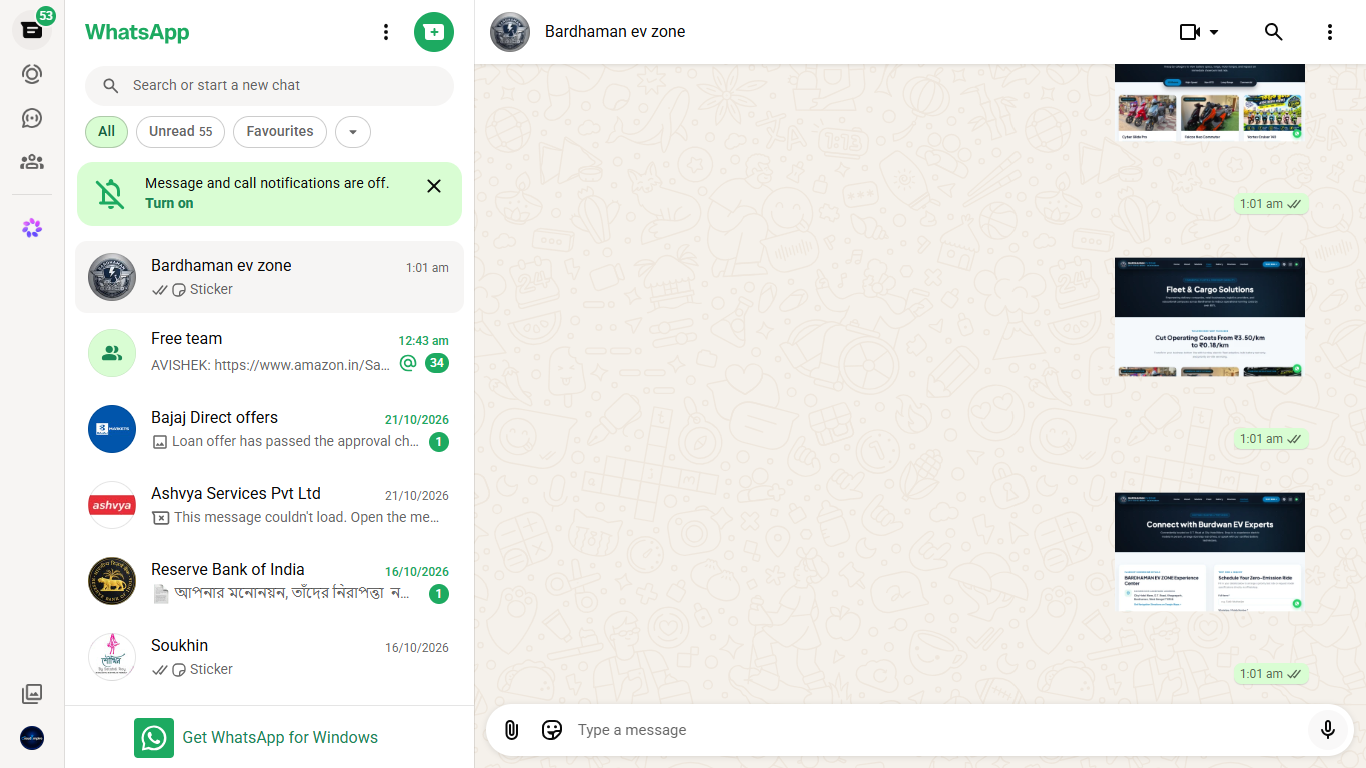
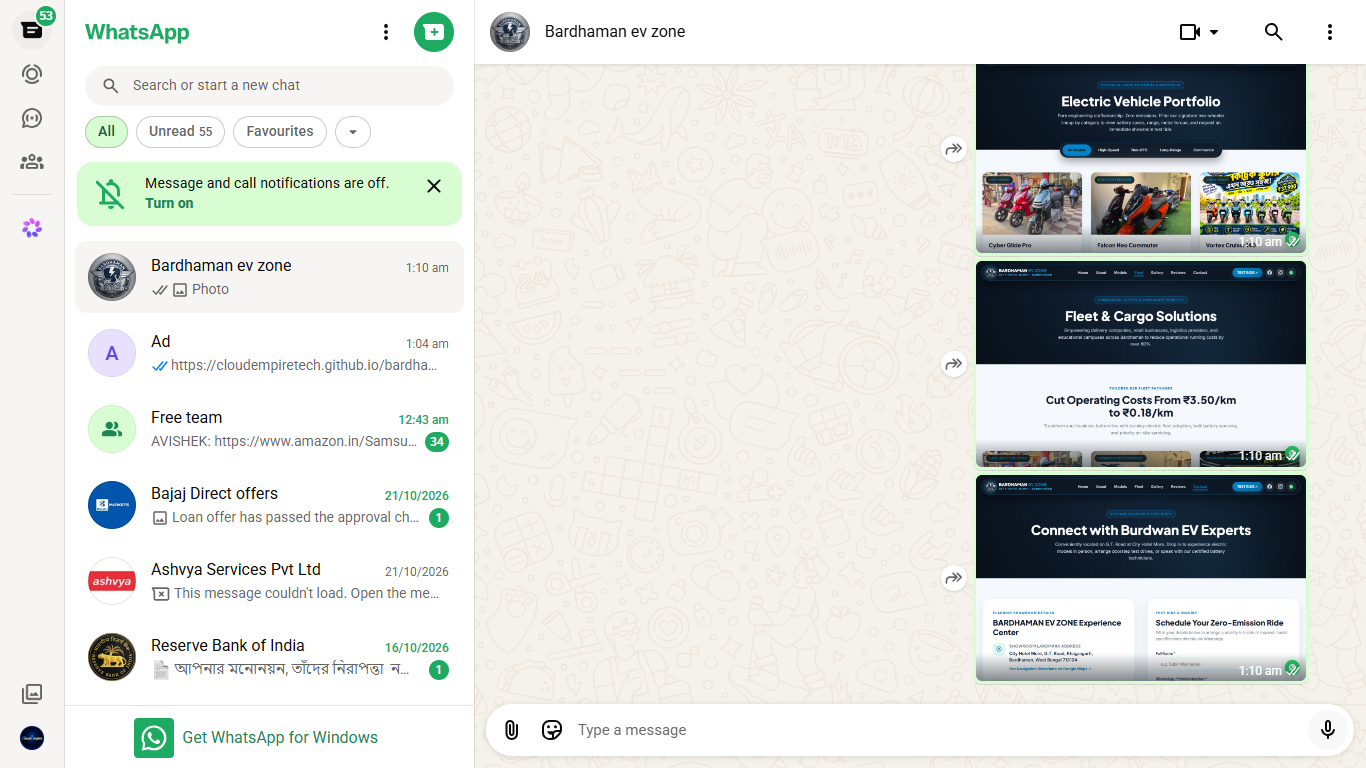
Fix attachment method to strictly use Photos & videos file chooser

diff --git a/dispatch_bardhaman_ev_wa.js b/dispatch_bardhaman_ev_wa.js
@@ -101,56 +101,34 @@ async function dispatch() {
 
     // Open attach menu
     try {
-      const attachBtn = page.locator('button[aria-label*="Attach" i], div[aria-label*="Attach" i], span[data-icon="plus"], span[data-icon="attach-menu-plus"], span[data-icon="clip"], button[title*="Attach" i]').first();
+      console.log('[WA OUTREACH] Clicking Attach button...');
+      const attachBtn = page.locator('button[aria-label*="Attach" i], div[aria-label*="Attach" i], span[data-icon="plus"], span[data-icon="attach-menu-plus"]').first();
       await attachBtn.waitFor({ state: 'visible', timeout: 15000 });
       await attachBtn.click();
-      await page.waitForTimeout(2000);
+      await page.waitForTimeout(1500);
 
-      // Enable multiple on file inputs
-      await page.evaluate(() => {
-        document.querySelectorAll('input[type="file"]').forEach(i => i.setAttribute('multiple', 'multiple'));
-      });
+      // Trigger Photos & videos file chooser to strictly prevent sticker conversion
+      console.log('[WA OUTREACH] Selecting "Photos & videos" option via filechooser...');
+      const photosOption = page.locator('span:has-text("Photos & videos"), li:has-text("Photos & videos"), div[role="button"]:has-text("Photos & videos")').first();
+      await photosOption.waitFor({ state: 'visible', timeout: 10000 });
 
-      const fileInputs = await page.locator('input[type="file"]').all();
-      console.log(`[WA OUTREACH] Found ${fileInputs.length} file inputs for media.`);
+      const [fileChooser] = await Promise.all([
+        page.waitForEvent('filechooser', { timeout: 15000 }),
+        photosOption.click()
+      ]);
 
-      let uploaded = false;
-      for (let i = fileInputs.length - 1; i >= 0; i--) {
-        try {
-          await fileInputs[i].setInputFiles(screenshots);
-          console.log(`[WA OUTREACH] Successfully attached screenshots to input[${i}]`);
-          uploaded = true;
-          break;
-        } catch (err) {
-          console.log(`[WA OUTREACH] Multiple upload attempt on input[${i}]: ${err.message}`);
-        }
-      }
+      console.log('[WA OUTREACH] FileChooser triggered! Attaching 4 screenshots as authentic photo attachments...');
+      await fileChooser.setFiles(screenshots);
 
-      if (!uploaded) {
-        console.log('[WA OUTREACH] Trying single screenshot attach...');
-        for (let i = fileInputs.length - 1; i >= 0; i--) {
-          try {
-            await fileInputs[i].setInputFiles(screenshots[0]);
-            console.log(`[WA OUTREACH] Attached hero screenshot to input[${i}]`);
-            uploaded = true;
-            break;
-          } catch (err) {
-            console.log(`[WA OUTREACH] Single upload attempt on input[${i}]: ${err.message}`);
-          }
-        }
-      }
+      console.log('[WA OUTREACH] Waiting for photo preview overlay to render...');
+      await page.waitForTimeout(5000);
 
-      if (uploaded) {
-        console.log('[WA OUTREACH] Waiting for media preview overlay...');
-        await page.waitForTimeout(5000);
-
-        // Click media send button
-        const mediaSendBtn = page.locator('span[data-icon="send"], button[aria-label*="Send" i], div[aria-label*="Send" i], span[data-icon="checkmark-medium"]').first();
-        await mediaSendBtn.waitFor({ state: 'visible', timeout: 15000 });
-        await mediaSendBtn.click();
-        console.log('[WA OUTREACH] Media send button clicked!');
-        await page.waitForTimeout(14000);
-      }
+      // Click media send button
+      const mediaSendBtn = page.locator('span[data-icon="send"], div[aria-label*="Send" i], button[aria-label*="Send" i]').first();
+      await mediaSendBtn.waitFor({ state: 'visible', timeout: 15000 });
+      await mediaSendBtn.click();
+      console.log('[WA OUTREACH] Media send button clicked!');
+      await page.waitForTimeout(15000);
     } catch (mediaErr) {
       console.warn('[WA OUTREACH] Media attachment notice (text was dispatched):', mediaErr.message);
     }
